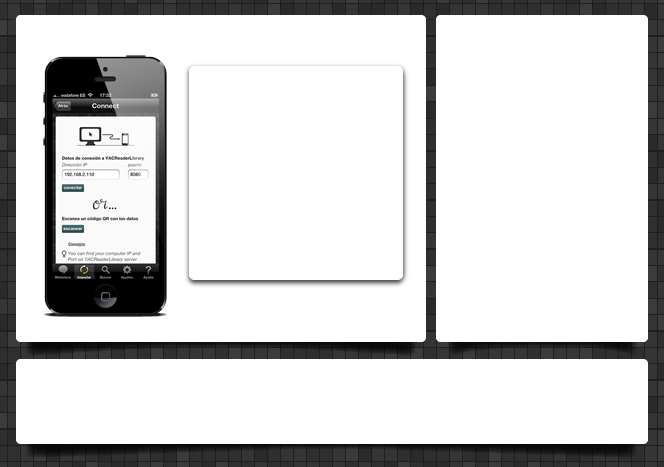
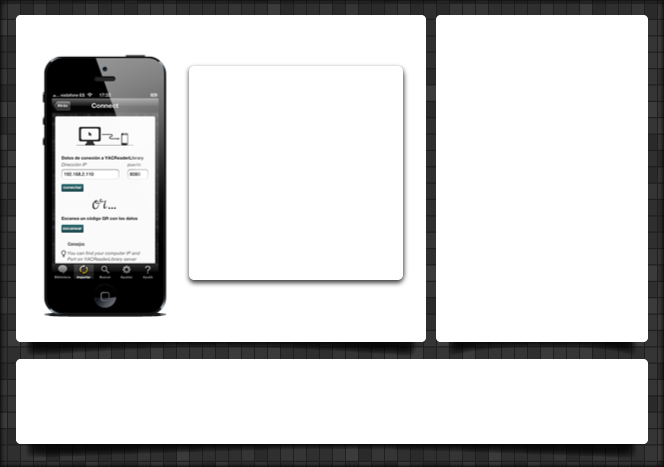
actualizadas las traducciones al espa?ol para la versi?n 6.0
retocado el dialogo de configuraci?n del servidor

diff --git a/YACReader/yacreader_es.ts b/YACReader/yacreader_es.ts
@@ -145,62 +145,63 @@
     <message>
         <location filename="comic.cpp" line="216"/>
         <source>Not found</source>
-        <translation type="unfinished">No encontrado</translation>
+        <translatorcomment>No encontrado</translatorcomment>
+        <translation>No encontrado</translation>
     </message>
     <message>
         <location filename="comic.cpp" line="216"/>
         <source>Comic not found</source>
-        <translation type="unfinished">Cómic no encontrado</translation>
+        <translation>Cómic no encontrado</translation>
     </message>
     <message>
         <location filename="comic.cpp" line="243"/>
         <source>File error</source>
-        <translation type="unfinished">Error en archivo</translation>
+        <translation>Error en archivo</translation>
     </message>
     <message>
         <location filename="comic.cpp" line="243"/>
         <source>File not found or not images in file</source>
-        <translation type="unfinished">Archivo no encontrado o no hay imágenes en él</translation>
+        <translation>Archivo no encontrado o no hay imágenes en él</translation>
     </message>
     <message>
         <location filename="comic.cpp" line="297"/>
         <source>7z not found</source>
-        <translation type="unfinished">7z no encontrado</translation>
+        <translation>7z no encontrado</translation>
     </message>
     <message>
         <location filename="comic.cpp" line="297"/>
         <source>7z wasn&apos;t found in your PATH.</source>
-        <translation type="unfinished">7z no se ha encontrado en el PATH.</translation>
+        <translation>7z no se ha encontrado en el PATH.</translation>
     </message>
     <message>
         <location filename="comic.cpp" line="300"/>
         <source>7z crashed</source>
-        <translation type="unfinished">7z falló</translation>
+        <translation>7z falló</translation>
     </message>
     <message>
         <location filename="comic.cpp" line="300"/>
         <source>7z crashed.</source>
-        <translation type="unfinished">7z falló.</translation>
+        <translation>7z falló.</translation>
     </message>
     <message>
         <location filename="comic.cpp" line="303"/>
         <source>7z reading</source>
-        <translation type="unfinished">7z leyendo</translation>
+        <translation>7z leyendo</translation>
     </message>
     <message>
         <location filename="comic.cpp" line="303"/>
         <source>problem reading from 7z</source>
-        <translation type="unfinished">Problema leyendo desde 7z</translation>
+        <translation>Problema leyendo desde 7z</translation>
     </message>
     <message>
         <location filename="comic.cpp" line="306"/>
         <source>7z problem</source>
-        <translation type="unfinished">7z problema</translation>
+        <translation>7z problema</translation>
     </message>
     <message>
         <location filename="comic.cpp" line="306"/>
         <source>Unknown error 7z</source>
-        <translation type="unfinished">Error desconocido 7z</translation>
+        <translation>Error desconocido 7z</translation>
     </message>
 </context>
 <context>
@@ -255,7 +256,7 @@
     <message>
         <location filename="goto_flow_toolbar.cpp" line="44"/>
         <source>Page : </source>
-        <translation type="unfinished"></translation>
+        <translation>Página : </translation>
     </message>
 </context>
 <context>
@@ -533,7 +534,7 @@
     <message>
         <location filename="main_window_viewer.cpp" line="428"/>
         <source>Comic files</source>
-        <translation type="unfinished"></translation>
+        <translation>Archivos de cómic</translation>
     </message>
     <message>
         <source>Comic files (*.cbr *.cbz *.rar *.zip *.pdf *.tar *.arj)</source>
@@ -621,42 +622,42 @@
     <message>
         <location filename="options_dialog.cpp" line="113"/>
         <source>Brightness</source>
-        <translation type="unfinished"></translation>
+        <translation>Brillo</translation>
     </message>
     <message>
         <location filename="options_dialog.cpp" line="114"/>
         <source>Contrast</source>
-        <translation type="unfinished"></translation>
+        <translation>Contraste</translation>
     </message>
     <message>
         <location filename="options_dialog.cpp" line="115"/>
         <source>Gamma</source>
-        <translation type="unfinished"></translation>
+        <translation>Gamma</translation>
     </message>
     <message>
         <location filename="options_dialog.cpp" line="119"/>
         <source>Reset</source>
-        <translation type="unfinished"></translation>
+        <translation>Reset</translation>
     </message>
     <message>
         <location filename="options_dialog.cpp" line="125"/>
         <source>Image options</source>
-        <translation type="unfinished"></translation>
+        <translation>Opciones de imagen</translation>
     </message>
     <message>
         <location filename="options_dialog.cpp" line="135"/>
         <source>General</source>
-        <translation type="unfinished"></translation>
+        <translation>General</translation>
     </message>
     <message>
         <location filename="options_dialog.cpp" line="136"/>
         <source>Page Flow</source>
-        <translation type="unfinished"></translation>
+        <translation>Page Flow</translation>
     </message>
     <message>
         <location filename="options_dialog.cpp" line="137"/>
         <source>Image adjustment</source>
-        <translation type="unfinished"></translation>
+        <translation>Ajustes de imagen</translation>
     </message>
     <message>
         <location filename="options_dialog.cpp" line="150"/>
@@ -705,22 +706,22 @@
     <message>
         <location filename="viewer.cpp" line="183"/>
         <source>Not found</source>
-        <translation type="unfinished">No encontrado</translation>
+        <translation>No encontrado</translation>
     </message>
     <message>
         <location filename="viewer.cpp" line="183"/>
         <source>Comic not found</source>
-        <translation type="unfinished">Cómic no encontrado</translation>
+        <translation>Cómic no encontrado</translation>
     </message>
     <message>
         <location filename="viewer.cpp" line="773"/>
         <source>Cover!</source>
-        <translation type="unfinished"></translation>
+        <translation>¡Portada!</translation>
     </message>
     <message>
         <location filename="viewer.cpp" line="780"/>
         <source>Last page!</source>
-        <translation type="unfinished"></translation>
+        <translation>¡Última página!</translation>
     </message>
     <message>
         <source>Show Info</source>

diff --git a/YACReaderLibrary/yacreaderlibrary_es.ts b/YACReaderLibrary/yacreaderlibrary_es.ts
@@ -233,62 +233,62 @@
     <message>
         <location filename="../YACReader/comic.cpp" line="216"/>
         <source>Not found</source>
-        <translation type="unfinished"></translation>
+        <translation>No encontrado</translation>
     </message>
     <message>
         <location filename="../YACReader/comic.cpp" line="216"/>
         <source>Comic not found</source>
-        <translation type="unfinished"></translation>
+        <translation>Cómic no encontrado</translation>
     </message>
     <message>
         <location filename="../YACReader/comic.cpp" line="243"/>
         <source>File error</source>
-        <translation type="unfinished"></translation>
+        <translation>Error de archivo</translation>
     </message>
     <message>
         <location filename="../YACReader/comic.cpp" line="243"/>
         <source>File not found or not images in file</source>
-        <translation type="unfinished"></translation>
+        <translation>Archivo no encontrado o no hay imágenes en él</translation>
     </message>
     <message>
         <location filename="../YACReader/comic.cpp" line="297"/>
         <source>7z not found</source>
-        <translation type="unfinished">7z no encontrado</translation>
+        <translation>7z no encontrado</translation>
     </message>
     <message>
         <location filename="../YACReader/comic.cpp" line="297"/>
         <source>7z wasn&apos;t found in your PATH.</source>
-        <translation type="unfinished">7z no ha sido encontrado en tu PATH.</translation>
+        <translation>7z no ha sido encontrado en tu PATH.</translation>
     </message>
     <message>
         <location filename="../YACReader/comic.cpp" line="300"/>
         <source>7z crashed</source>
-        <translation type="unfinished">fallo en 7z</translation>
+        <translation>fallo en 7z</translation>
     </message>
     <message>
         <location filename="../YACReader/comic.cpp" line="300"/>
         <source>7z crashed.</source>
-        <translation type="unfinished">fallo en 7z.</translation>
+        <translation>fallo en 7z.</translation>
     </message>
     <message>
         <location filename="../YACReader/comic.cpp" line="303"/>
         <source>7z reading</source>
-        <translation type="unfinished">Leyendo de 7z</translation>
+        <translation>Leyendo de 7z</translation>
     </message>
     <message>
         <location filename="../YACReader/comic.cpp" line="303"/>
         <source>problem reading from 7z</source>
-        <translation type="unfinished">Problema lenyendo de 7z</translation>
+        <translation>Problema lenyendo de 7z</translation>
     </message>
     <message>
         <location filename="../YACReader/comic.cpp" line="306"/>
         <source>7z problem</source>
-        <translation type="unfinished">Problema en 7z</translation>
+        <translation>Problema en 7z</translation>
     </message>
     <message>
         <location filename="../YACReader/comic.cpp" line="306"/>
         <source>Unknown error 7z</source>
-        <translation type="unfinished">Error desconocido en 7z</translation>
+        <translation>Error desconocido en 7z</translation>
     </message>
 </context>
 <context>
@@ -971,47 +971,47 @@ Files won&apos;t be erased from disk.</source>
     <message>
         <location filename="server_config_dialog.cpp" line="18"/>
         <source>Update IPs</source>
-        <translation type="unfinished"></translation>
+        <translation>Actualizar IPs</translation>
     </message>
     <message>
         <location filename="server_config_dialog.cpp" line="25"/>
         <source>EASY SERVER CONNECTION</source>
-        <translation type="unfinished"></translation>
+        <translation type="unfinished">CONEXIÓN AL SERVIDOR FÁCILMENTE</translation>
     </message>
     <message>
         <location filename="server_config_dialog.cpp" line="29"/>
         <source>SERVER ADDRESS</source>
-        <translation type="unfinished"></translation>
+        <translation>DATOS SERVIDOR</translation>
     </message>
     <message>
         <location filename="server_config_dialog.cpp" line="33"/>
         <source>just scan the code with your device!!</source>
-        <translation type="unfinished"></translation>
+        <translation>¡simplemente escanea el código con tu dispositivo!</translation>
     </message>
     <message>
         <location filename="server_config_dialog.cpp" line="39"/>
         <source>YACReader is now available for iOS devices, the best comic reading experience now in your iPad, iPhone or iPod touch. &lt;a href=&apos;http://ios.yacreader.com&apos;&gt; Discover it! &lt;/a&gt;</source>
-        <translation type="unfinished"></translation>
+        <translation>YACReader está ahora disponible para dispositivos iOS, la mejor experiencia de lectura de cómics ahora en tu iPad, iPhone o iPod touch. &lt;a href=&apos;http://ios.yacreader.com&apos;&gt; ¡Descúbrelo! &lt;/a&gt; </translation>
     </message>
     <message>
         <location filename="server_config_dialog.cpp" line="47"/>
         <source>IP address</source>
-        <translation type="unfinished"></translation>
+        <translation>IP usada</translation>
     </message>
     <message>
         <location filename="server_config_dialog.cpp" line="51"/>
         <source>Port</source>
-        <translation type="unfinished"></translation>
+        <translation>Puerto</translation>
     </message>
     <message>
         <location filename="server_config_dialog.cpp" line="67"/>
         <source>enable the server</source>
-        <translation type="unfinished"></translation>
+        <translation>activar el servidor</translation>
     </message>
     <message>
         <location filename="server_config_dialog.cpp" line="196"/>
         <source>QR generator error!</source>
-        <translation type="unfinished"></translation>
+        <translation>¡Error del generador QR!</translation>
     </message>
 </context>
 <context>
@@ -1034,7 +1034,7 @@ Files won&apos;t be erased from disk.</source>
     <message>
         <location filename="db/tablemodel.cpp" line="101"/>
         <source>Size</source>
-        <translation type="unfinished"></translation>
+        <translation>Tamaño</translation>
     </message>
 </context>
 <context>

diff --git a/YACReaderLibrary/server_config_dialog.cpp b/YACReaderLibrary/server_config_dialog.cpp
@@ -23,11 +23,11 @@ ServerConfigDialog::ServerConfigDialog(QWidget * parent)
 	qrCode->setFixedSize(200,200);
 
 	QLabel * title1 = new QLabel(tr("EASY SERVER CONNECTION"),this);
-	title1->move(37,30);
+	title1->move(37,28);
 	title1->setStyleSheet("QLabel {color:#1F1F1F; font-size:18px; font-family: Arial; font-weight: bold;}");
 
 	QLabel * title2 = new QLabel(tr("SERVER ADDRESS"),this);
-	title2->move(451,30);
+	title2->move(451,28);
 	title2->setStyleSheet("QLabel {color:#1F1F1F; font-size:18px; font-family: Arial; font-weight: bold;}");
 
 	QLabel * qrMessage = new QLabel(tr("just scan the code with your device!!"),this);
@@ -45,11 +45,11 @@ ServerConfigDialog::ServerConfigDialog(QWidget * parent)
 	propaganda->setOpenExternalLinks(true);
 
 	QLabel * ipLabel = new QLabel(tr("IP address"),this);
-	ipLabel->move(455,78);
+	ipLabel->move(455,75);
 	ipLabel->setStyleSheet("QLabel {color:#1F1F1F; font-size:13px; font-family: Arial; font-weight: bold;}");
 
 	QLabel * portLabel = new QLabel(tr("Port"),this);
-	portLabel->move(455, 119);
+	portLabel->move(455, 114);
 	portLabel->setStyleSheet("QLabel {color:#1F1F1F; font-size:13px; font-family: Arial; font-weight: bold;}");
 
 	ip = new QComboBox(this);
